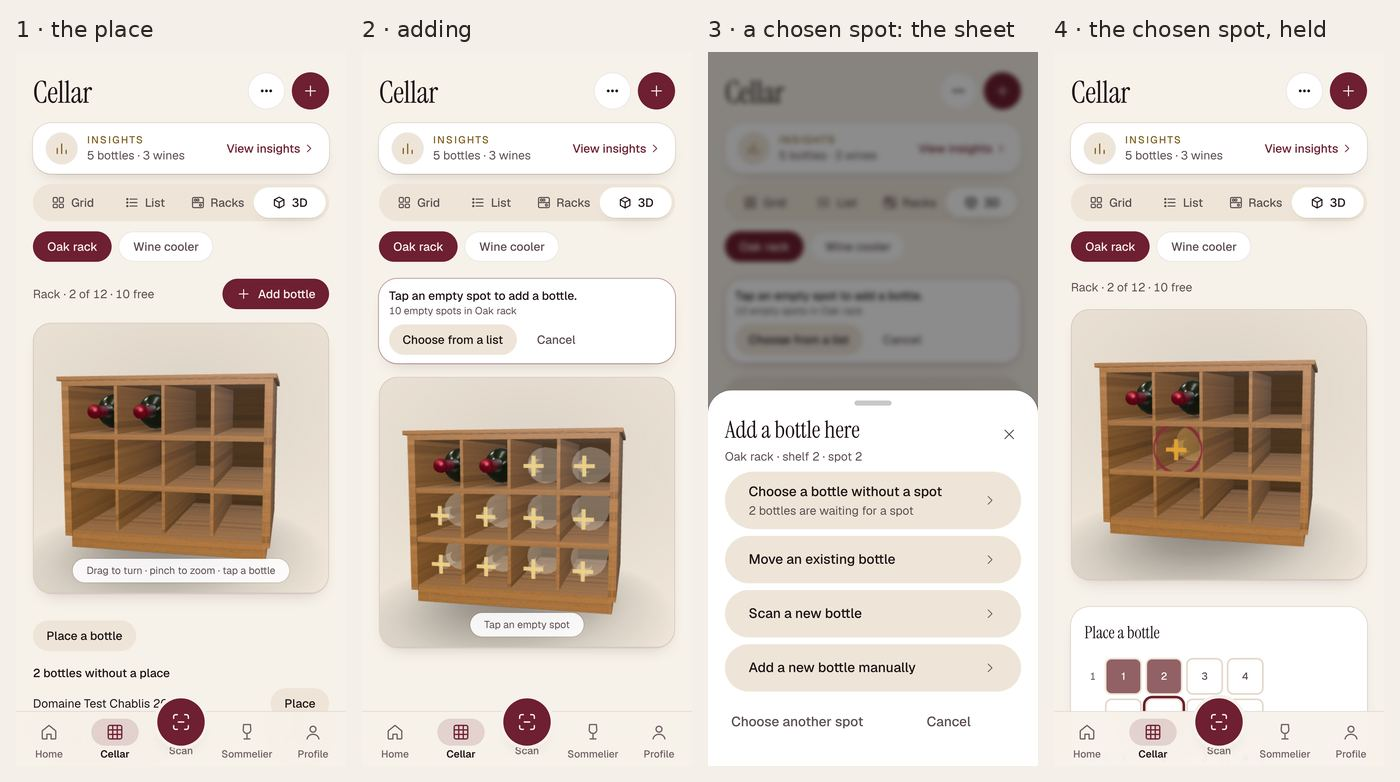
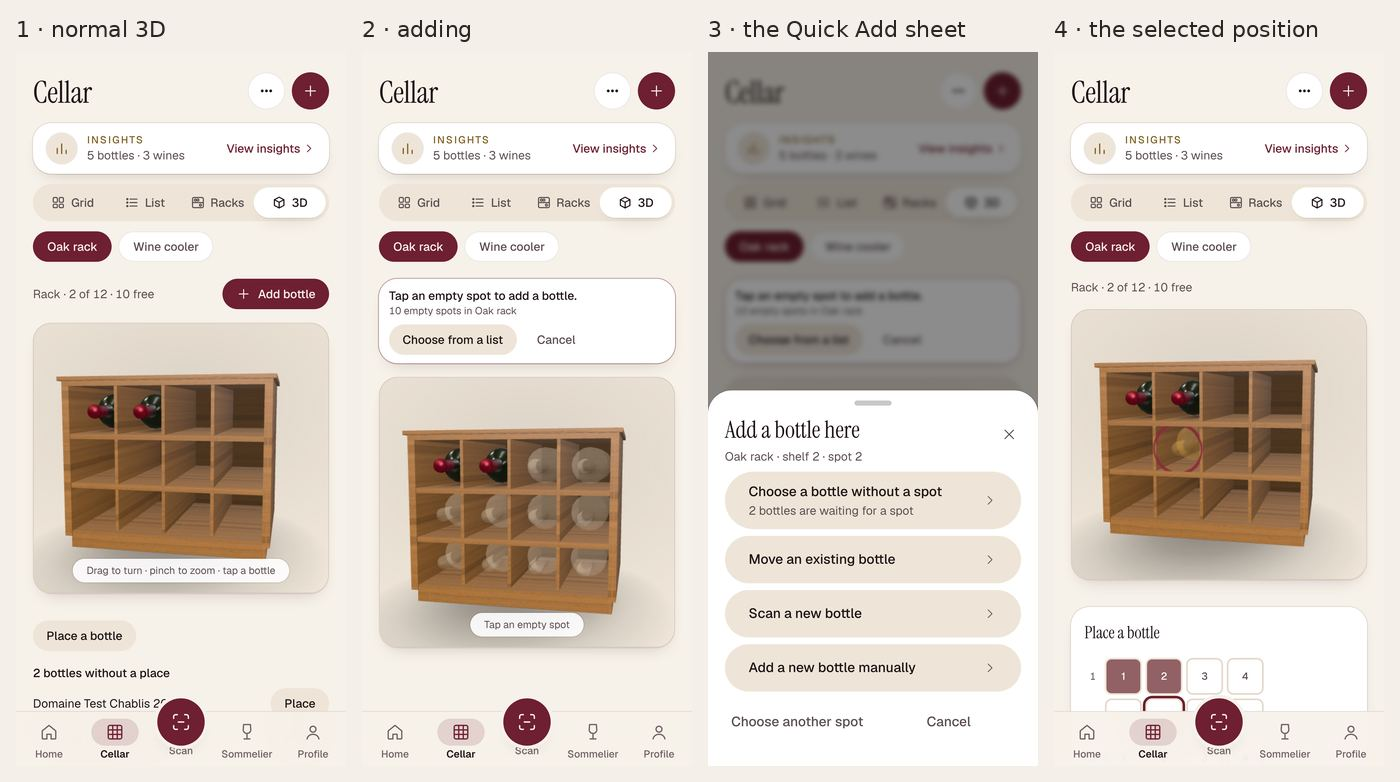
Sprint 7.2: final screenshots (no plus) and report with the final test and bench results
- screens/7.2-quick-add-{desktop,iphone-se,iphone-13,pixel-7}.jpg replaced: normal 3D, adding (glass
  bottles, no plus), the Quick Add sheet, the selected position. New: 7.2-quick-add-furniture.jpg
  (dark and light furniture, mouse hover).
- Report: tests (141 passed / 0 failed in the 3D, placement and add-to-spot suites on the final
  build), the bench (per placeholder 384/288/240 triangles; 30×30 adding 289k instead of 365k),
  open points.

Claude-Session: https://claude.ai/code/session_013neB3mAZJeosJ8yNDRAigC

diff --git a/docs/sprints/smart-cellar-3d/SPRINT-7.2-REPORT.md b/docs/sprints/smart-cellar-3d/SPRINT-7.2-REPORT.md
@@ -32,60 +32,65 @@ Quick Add.
   the scene's own light and reflections.
 - `SpotMarkers` (`storage3d/template-scene.tsx`): **one `InstancedMesh`**, one geometry, one material: one draw call
   for every placeholder of a place. Instance colours: resting `#efe7d6`, hovered with a mouse or pen `#ffe6b3` (never
-  with a finger), chosen `#e9b955` plus a 5 % lift about its own middle, and the existing target ring. Nothing is
+  with a finger), chosen `#e9b955` with a 5 % lift about its own middle, and the existing target ring. Nothing is
   allocated per frame; demand rendering unchanged; geometry and material are disposed when the placeholders go.
 - The tap target is the whole placeholder bottle, with the rules as before: a tap that moved more than 8 px or ended a
   camera drag (or a pinch) is not a tap; bottles cannot be taken out while spots are on offer.
 
 ## 3. Tests
 
-| Check                                                                                                                                                                         | Result                                                                                                                                                                                                                              |
-| ----------------------------------------------------------------------------------------------------------------------------------------------------------------------------- | ----------------------------------------------------------------------------------------------------------------------------------------------------------------------------------------------------------------------------------- |
-| `pnpm format:check && pnpm lint && pnpm typecheck && pnpm test`                                                                                                               | green (web 1593 passed, domain 1495 passed; one existing lint warning in `playwright.webkit.config.ts`)                                                                                                                             |
-| New unit tests (`storage3d/resources.test.ts`)                                                                                                                                | 4: one geometry with RGBA per vertex and only two alphas; posed exactly where a bottle lies, the plus in front of the neck; along a wall, the plus on the front; < 1,000 triangles                                                  |
-| New browser test "sprint 7.2" (phone and desktop)                                                                                                                             | Add bottle above the picture and on the first screen; after Add, the instruction and Cancel in view and the whole picture on the first screen; the sheet's six labels; no option cut off; Cancel (sheet and bar) back to the cellar |
-| Screenshots test (`SHOTS72=1`): iPhone SE, iPhone 13, Pixel 7, desktop                                                                                                        | instruction, Cancel and three quarters of the picture on screen while adding, on every size                                                                                                                                         |
-| Browser regression on the final build: `quick-add`, `smart-cellar-3d`, `placement`, `advice`, `visual-placement`, `smart-cellar-3d-old-db`, `add-to-spot` (phone and desktop) | **178 passed, 0 failed**, 22 skipped (the other project's half of device-specific tests, and the opt-in suites `VISUAL_PLACEMENT=1` and `OLD_DB=1`)                                                                                 |
-| Architecture: `architecture:inventory`, `architecture:impact`, `vitest run src/server/system`                                                                                 | inventory unchanged; "No structural change against `origin/main`"; 27 passed; register 1.3.2                                                                                                                                        |
+| Check                                                                                                                 | Result                                                                                                                                                                                                                                                                                                                                                                                                                               |
+| --------------------------------------------------------------------------------------------------------------------- | ------------------------------------------------------------------------------------------------------------------------------------------------------------------------------------------------------------------------------------------------------------------------------------------------------------------------------------------------------------------------------------------------------------------------------------ |
+| `pnpm format:check && pnpm lint && pnpm typecheck && pnpm test`                                                       | green: domain 1495, web 1596 (13 skipped), scripts 274; one existing lint warning (`playwright.webkit.config.ts`)                                                                                                                                                                                                                                                                                                                    |
+| Translation keys                                                                                                      | `en.json` and `nl.json`: 2,354 keys each, none missing on either side                                                                                                                                                                                                                                                                                                                                                                |
+| Unit tests for the placeholders (`storage3d/resources.test.ts`)                                                       | **no plus**: the geometry is exactly a bottle's lathe (same vertices and triangles), no per-vertex colours, no groups, nothing past the neck or beside the body; posed exactly where a bottle lies, towards the viewer and along a wall; plainer with hundreds on offer, under 400 triangles; see-through material, no depth write, white (tone per instance)                                                                        |
+| Browser test "sprint 7.2" (phone and desktop)                                                                         | Add bottle above the picture, on the first screen; after Add: the instruction and Cancel in view and the whole picture on the first screen; **the placeholders drawn are one mesh of bottle-sized glass** (one object, one material, attributes `normal` + `position` only, length 3.4, width ≤ 0.9, < 400 triangles); the sheet's six labels; no option cut off; Cancel (sheet and bar) back to the cellar, **no placeholder left** |
+| Browser test "two fingers zoom and choose nothing" (phone)                                                            | a pinch while adding moves the camera closer; no sheet, still choosing, all 10 placeholders still there                                                                                                                                                                                                                                                                                                                              |
+| Screenshots test (`SHOTS72=1`)                                                                                        | iPhone SE, iPhone 13, Pixel 7, desktop: instruction, Cancel and three quarters of the picture in view while adding; dark and light furniture; a mouse hover                                                                                                                                                                                                                                                                          |
+| Browser regression on the final build (`quick-add`, `smart-cellar-3d`, `placement`, `add-to-spot`; phone and desktop) | **141 passed, 0 failed**, 17 skipped (the other project's half of device-specific tests)                                                                                                                                                                                                                                                                                                                                             |
+| Earlier on this sprint, same suites plus `advice`, `visual-placement`, `smart-cellar-3d-old-db`                       | 178 passed, 0 failed                                                                                                                                                                                                                                                                                                                                                                                                                 |
+| `e2e/admin-system.spec.ts` (failed on `main`'s CI after #114 and #118)                                                | passes locally on the integrated branch (with #120); see the CI on the PR                                                                                                                                                                                                                                                                                                                                                            |
+| Architecture: inventory, impact, `vitest run src/server/system`                                                       | inventory matches `main`; "No structural change against `origin/main`. The register itself changed." (version only); 27 passed; register 1.4.1, reviewed 2026-11-22                                                                                                                                                                                                                                                                  |
 
-All 15 scenarios of the sprint 7 brief stay covered by `e2e/quick-add.spec.ts` (now 18 tests per project), including the
-scan and manual return to 3D, a spot taken meanwhile, lost answers (never a bottle twice), another household, legacy
-places, no WebGL, a lost graphics context, the keyboard with reduced motion (axe: no violations).
+All 15 scenarios of the sprint 7 brief stay covered by `e2e/quick-add.spec.ts`: a tap
+opens the right sheet; dragging the camera chooses nothing; closing the sheet goes back to choosing; Cancel removes
+every placeholder; scan and manual add keep the chosen spot and come back to 3D; a spot taken meanwhile; lost answers
+(never a bottle twice); another household; legacy places and places the picture cannot point into (list); no WebGL;
+a lost graphics context; the keyboard with reduced motion (axe: no violations); bottle inspection unchanged.
 
 ## 4. Performance
 
 The sprint 7 bench (`e2e/perf-quick-add.spec.ts`, `PERF_QUICK=1`): a real household, a `rack_classic` place half
 full (every other spot taken, so as many placeholders as bottles), the product's 3D cellar on the preview server, three
-rounds of Add bottle → tap a placeholder → sheet → close. Software rendering (no GPU here): these numbers compare
-builds on one machine; they are not a phone's.
+rounds of Add bottle → tap a placeholder → sheet → close. **Software rendering (no GPU in this environment): these
+numbers compare builds on one machine; they say nothing about a real phone's GPU.**
 
-| Device  | Spots (free) | Draw calls (view → adding) | Triangles (view → adding) | Idle frames in 3 s | Add → placeholders drawn | Tap → sheet (upper bound) | Geometries/textures/programs after 3 rounds | Builds | JS heap MB (before → after) |
-| ------- | ------------ | -------------------------- | ------------------------- | ------------------ | ------------------------ | ------------------------- | ------------------------------------------- | ------ | --------------------------- |
-| phone   | 80 (40)      | 8 → 9                      | 33,662 → 49,982           | 0                  | 6 ms                     | 334 ms                    | 22/7/32 (unchanged each round)              | 1      | 25.4 → 28.3                 |
-| phone   | 400 (200)    | 6 → 7                      | 82,188 → 163,788          | 0                  | 11 ms                    | 385 ms                    | 20/4/29 (unchanged)                         | 1      | 36.2 → 32.6                 |
-| phone   | 900 (450)    | 6 → 7                      | 181,268 → 364,868         | 0                  | 19 ms                    | 593 ms                    | 20/4/29 (unchanged)                         | 1      | 60.2 → 63.9                 |
-| desktop | 80 (40)      | 8 → 9                      | 33,662 → 49,982           | 0                  | 17 ms                    | 285 ms                    | 22/7/32 (unchanged)                         | 1      | 33.2 → 35.4                 |
-| desktop | 400 (200)    | 6 → 7                      | 82,188 → 163,788          | 0                  | 10 ms                    | 471 ms                    | 20/4/29 (unchanged)                         | 1      | 69.5 → 35.5                 |
-| desktop | 900 (450)    | 6 → 7                      | 181,268 → 364,868         | 0                  | 25 ms                    | 650 ms                    | 20/4/29 (unchanged)                         | 1      | 59.8 → 57.1                 |
+| Device  | Spots (free) | Draw calls (view → adding) | Triangles (view → adding) | Per placeholder | Idle frames in 3 s | Add → drawn | Tap → sheet (upper bound) | Geometries/textures/programs after 3 rounds | Builds | JS heap MB (before → after) |
+| ------- | ------------ | -------------------------- | ------------------------- | --------------- | ------------------ | ----------- | ------------------------- | ------------------------------------------- | ------ | --------------------------- |
+| phone   | 80 (40)      | 8 → 9                      | 33,662 → 49,022           | 384             | 0                  | 6 ms        | 361 ms                    | 22/7/32, same every round                   | 1      | 25.3 → 32.1                 |
+| phone   | 400 (200)    | 6 → 7                      | 82,188 → 139,788          | 288             | 0                  | 7 ms        | 405 ms                    | 20/4/29, same                               | 1      | 36.0 → 47.2                 |
+| phone   | 900 (450)    | 6 → 7                      | 181,268 → 289,268         | 240             | 0                  | 11 ms       | 589 ms                    | 20/4/29, same                               | 1      | 58.3 → 42.0                 |
+| desktop | 80 (40)      | 8 → 9                      | 33,662 → 49,022           | 384             | 0                  | 7 ms        | 335 ms                    | 22/7/32, same                               | 1      | 32.9 → 36.4                 |
+| desktop | 400 (200)    | 6 → 7                      | 82,188 → 139,788          | 288             | 0                  | 7 ms        | 520 ms                    | 20/4/29, same                               | 1      | 41.7 → 32.4                 |
+| desktop | 900 (450)    | 6 → 7                      | 181,268 → 289,268         | 240             | 0                  | 12 ms       | 731 ms                    | 20/4/29, same                               | 1      | 66.1 → 45.5                 |
 
-Compared with sprint 7 (gold discs):
-
-- **Draw calls: unchanged** (+1 while adding, however many spots). **Idle: unchanged** (nothing drawn while nothing
-  moves). **Leaks: none** (the same geometries, textures and programs after every round; the scene is built once;
-  the heap does not grow round after round).
-- **Triangles: higher.** A placeholder is 408 triangles (a disc was 28). Adding in a half-full place now costs about
-  what the same place full of real bottles costs (the placeholders are as detailed as the real bottles at the lower
-  levels of detail): 30×30 half full goes from 181k to 365k triangles while adding. That is the price of a bottle
-  silhouette; it only applies while adding, and the largest case is within what a full place already draws. Should a
-  real device show a problem on very large places, the placeholder's ring count can be halved without changing
-  anything else (one constant, `GHOST_RADIAL`).
-- Tap → sheet is within the spread of sprint 7 (316–680 ms there, 285–650 ms here, same machine class).
+- **Draw calls:** +1 while adding, however many spots (as sprint 7's discs). **Idle:** nothing drawn while nothing
+  moves. **Cleanup:** the same geometries, textures and programs after every round (nothing left behind by entering
+  and leaving); the scene is built once; the heap moves with the collector, it does not grow round after round.
+- **Triangles:** removing the plus and the adaptive detail took the placeholder from 408 triangles (the draft with the
+  plus) to 384 / 288 / 240; a 30×30 rack half full goes to 289k while adding instead of 365k (−21 %). That is still
+  more than sprint 7's flat discs (28 each): the price of a bottle silhouette. It only applies while adding, and the
+  largest case stays below what the same rack full of real bottles draws.
+- Tap → sheet stays within the spread measured for sprint 7 on this machine class (316–680 ms there).
 
 ## 5. Screenshots
 
-`screens/7.2-quick-add-*.jpg`: per size (desktop 1280×800, iPhone SE 375×667, iPhone 13 390×844, Pixel 7 412×915)
-the place as it is, adding (instruction at the top, placeholders), the sheet of a chosen spot, and the chosen spot
-held while a bottle is chosen for it.
+`screens/7.2-quick-add-{desktop,iphone-se,iphone-13,pixel-7}.jpg`: per size (desktop 1280×800, iPhone SE 375×667,
+iPhone 13 390×844, Pixel 7 412×915) the normal 3D view (no placeholders), adding (glass bottles on the empty spots, no
+plus, the instruction above the furniture), the Quick Add sheet, and the selected position (gold, ringed) while a
+bottle is chosen for it. `screens/7.2-quick-add-furniture.jpg`: the placeholders on dark (ebony) and light (white
+lacquer) furniture, a mouse hover, and light furniture on an iPhone SE. The earlier screenshots with a plus are
+replaced.
 
 ## 6. Compatibility and regression
 
@@ -106,9 +111,11 @@ previous deployment (or `CELLR_SMART_CELLAR=read` to stop all placement writes, 
 
 ## 8. Open points
 
-- **A real phone.** The bench uses software rendering; the triangle cost of the placeholders on very large places
-  (30×30) is best confirmed on a real mid-range phone after deploy. The fallback is one constant (`GHOST_RADIAL`).
-- **"Show empty spots" toggle** (E) not built, on purpose (see section 1).
-- **Pre-existing, not this sprint:** `e2e/admin-system.spec.ts:67` fails on `main` too (from PR #114); public docs
-  that still carry production observations are a separate clean-up.
+- **A real phone.** The bench uses software rendering; real-device GPU performance is not verified. Large racks
+  (hundreds of free spots) are the case to look at on a mid-range phone after deploy. Already in place: plainer
+  placeholders above 120 and 400 spots (`ghostRadial`).
+- **Light furniture.** On white lacquer the placeholders are deliberately faint (pale glass on a pale surface); they
+  stay visible through the scene's shading. If the owner wants them stronger there, the opacity is one constant
+  (`GHOST_OPACITY`).
+- **"Show empty spots" toggle** (E): not built, on purpose (see section 1).
 - Merge and deploy are the owner's.
